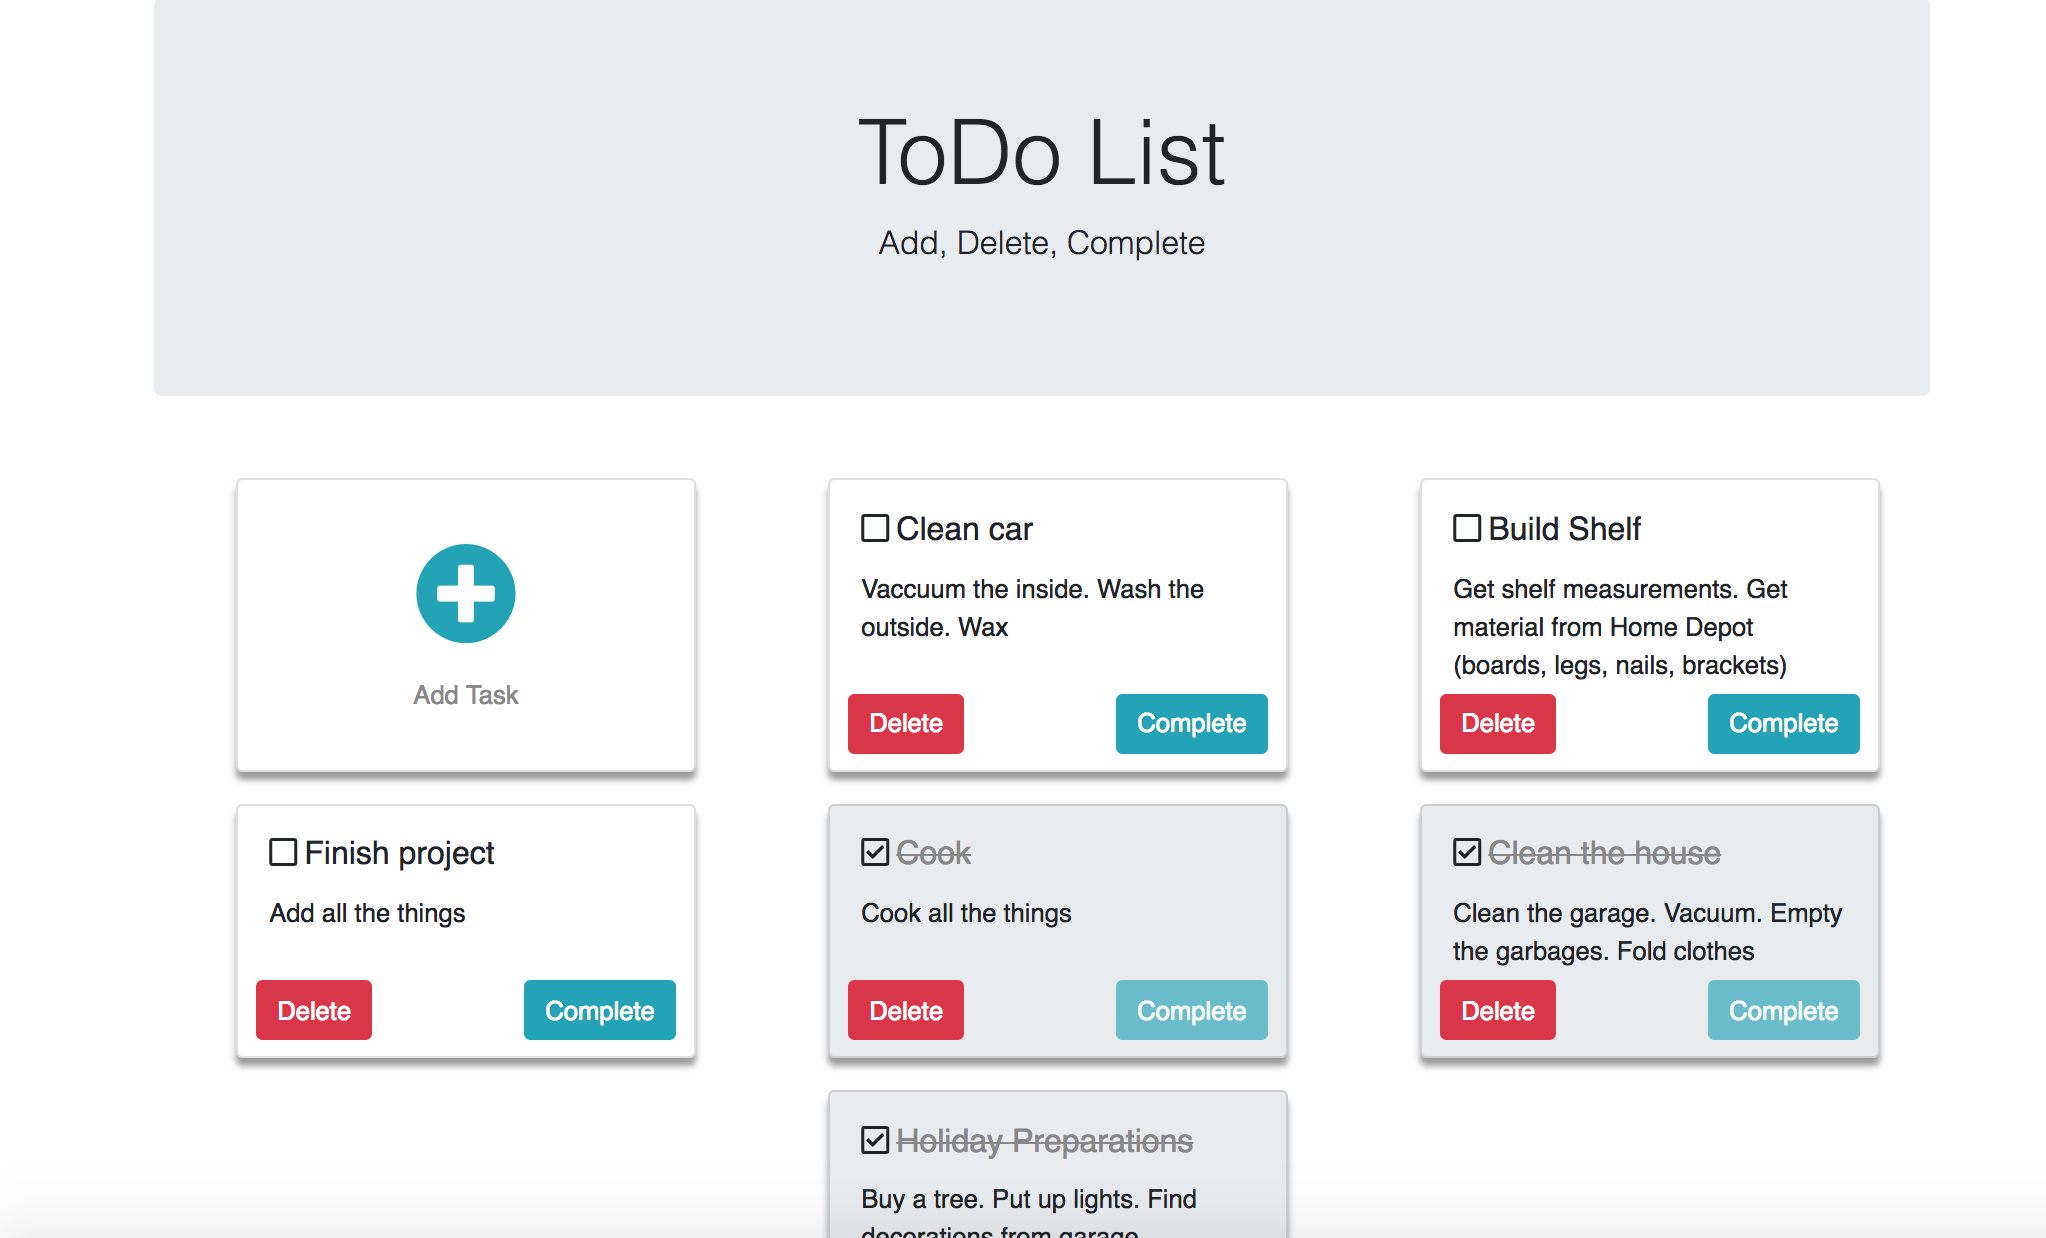
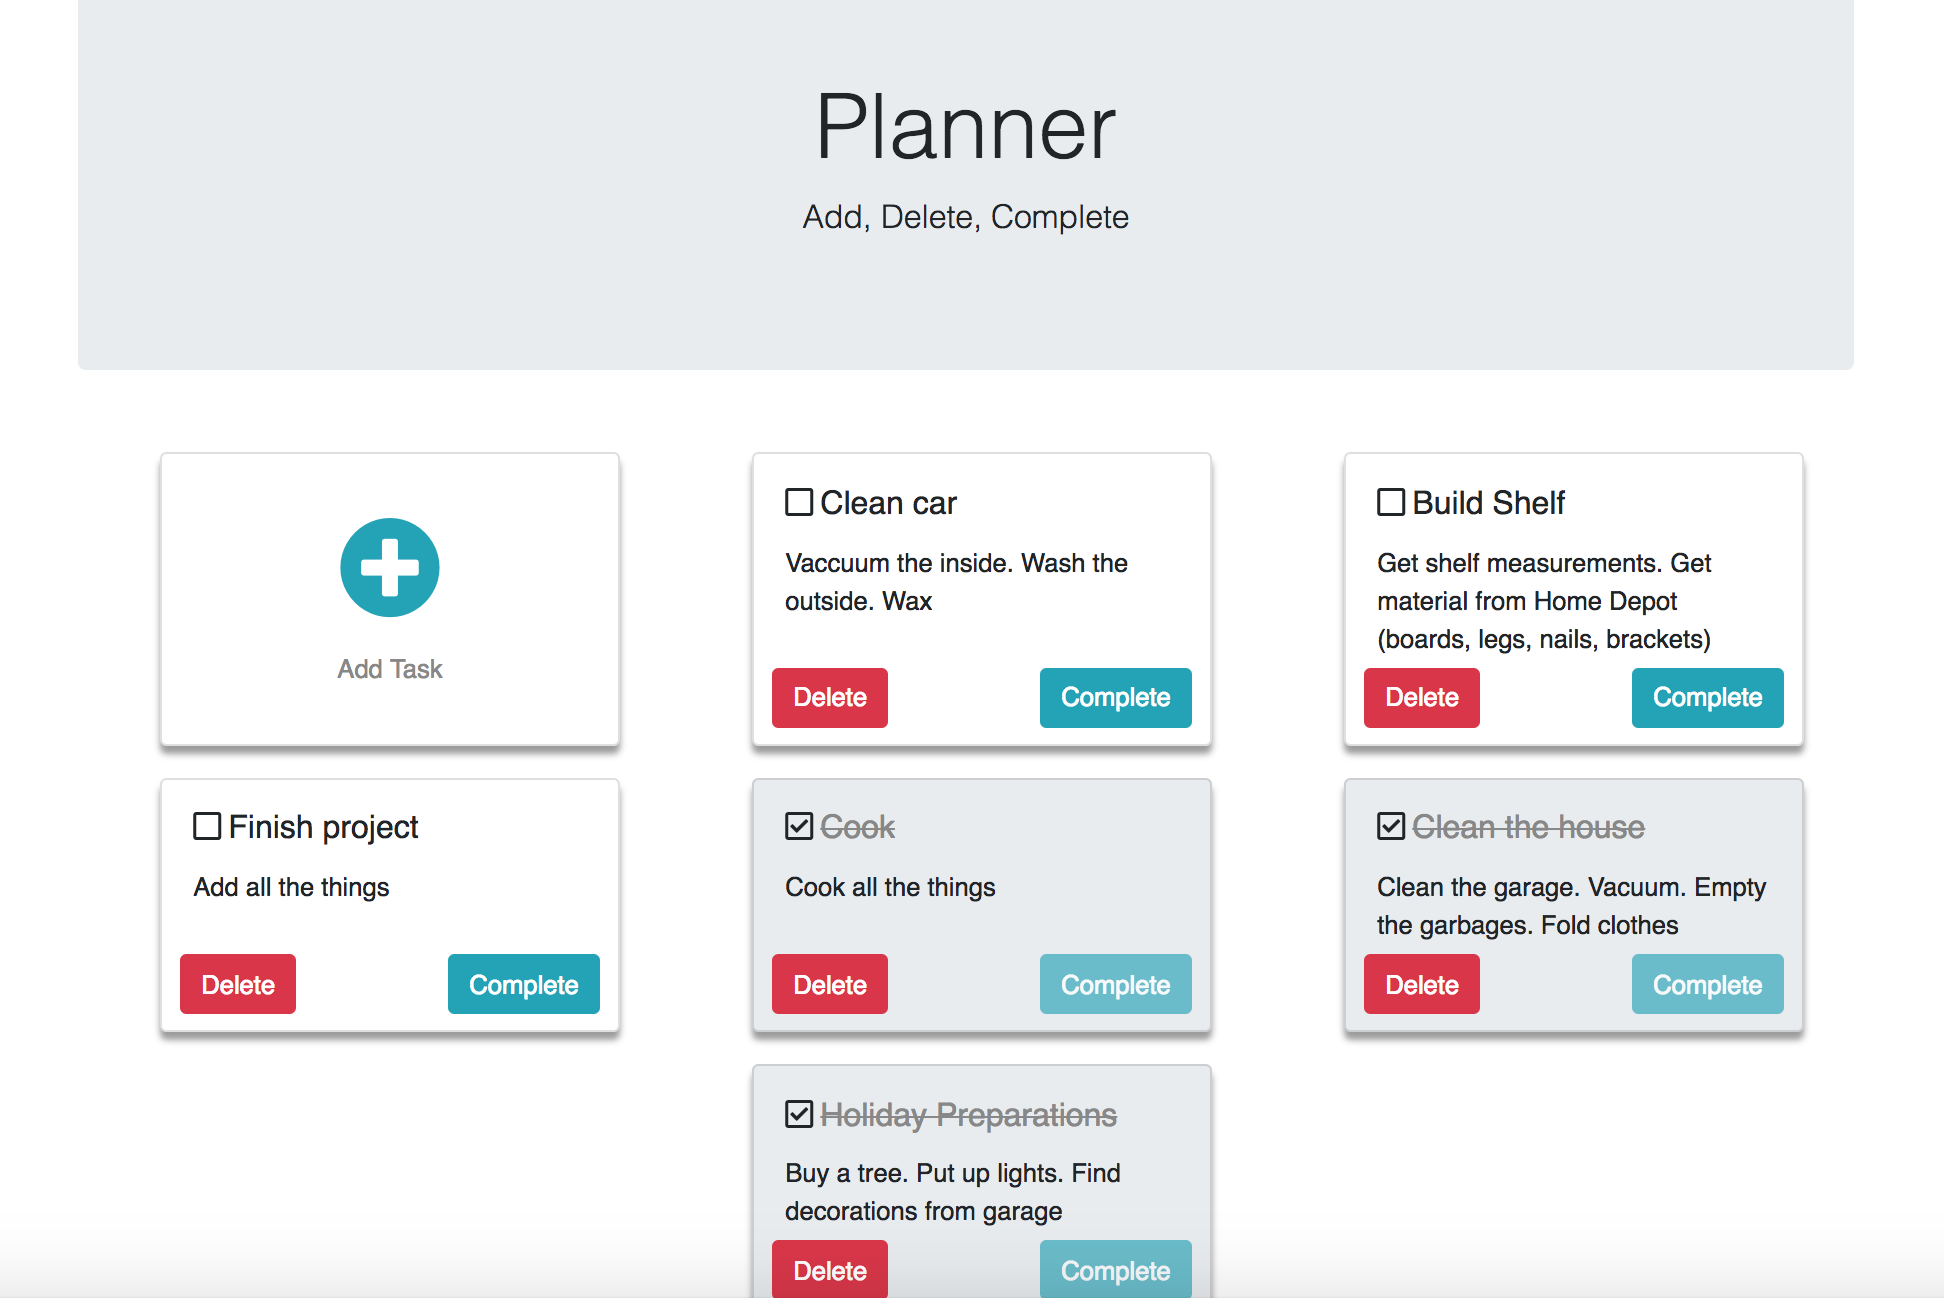
Update README

diff --git a/server/public/index.html b/server/public/index.html
@@ -17,7 +17,7 @@
 <body>
   <div class="container">
     <div class="jumbotron">
-      <h1 class="text-center display-4">ToDo List</h1>
+      <h1 class="text-center display-4">Planner</h1>
       <p class="lead text-center">Add, Delete, Complete</p>
     </div>
     <div id="card__container">
